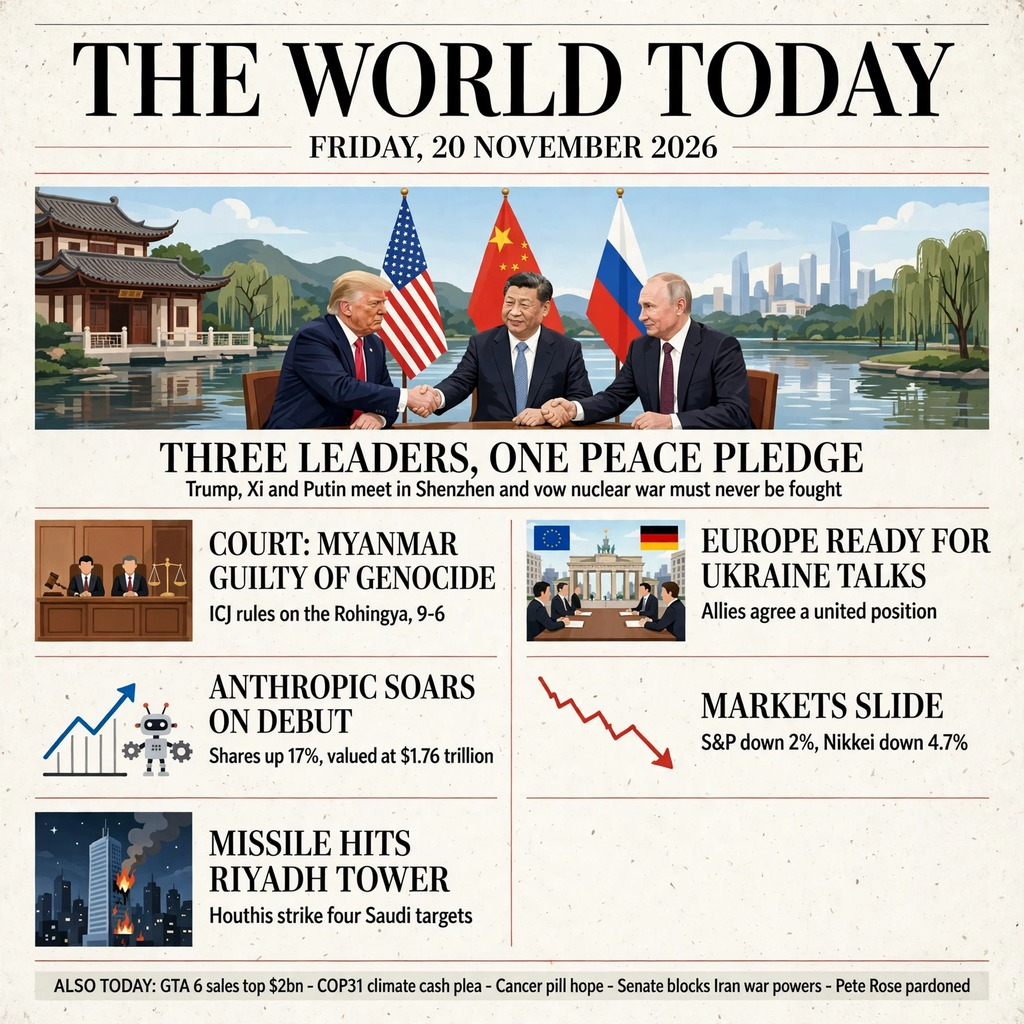
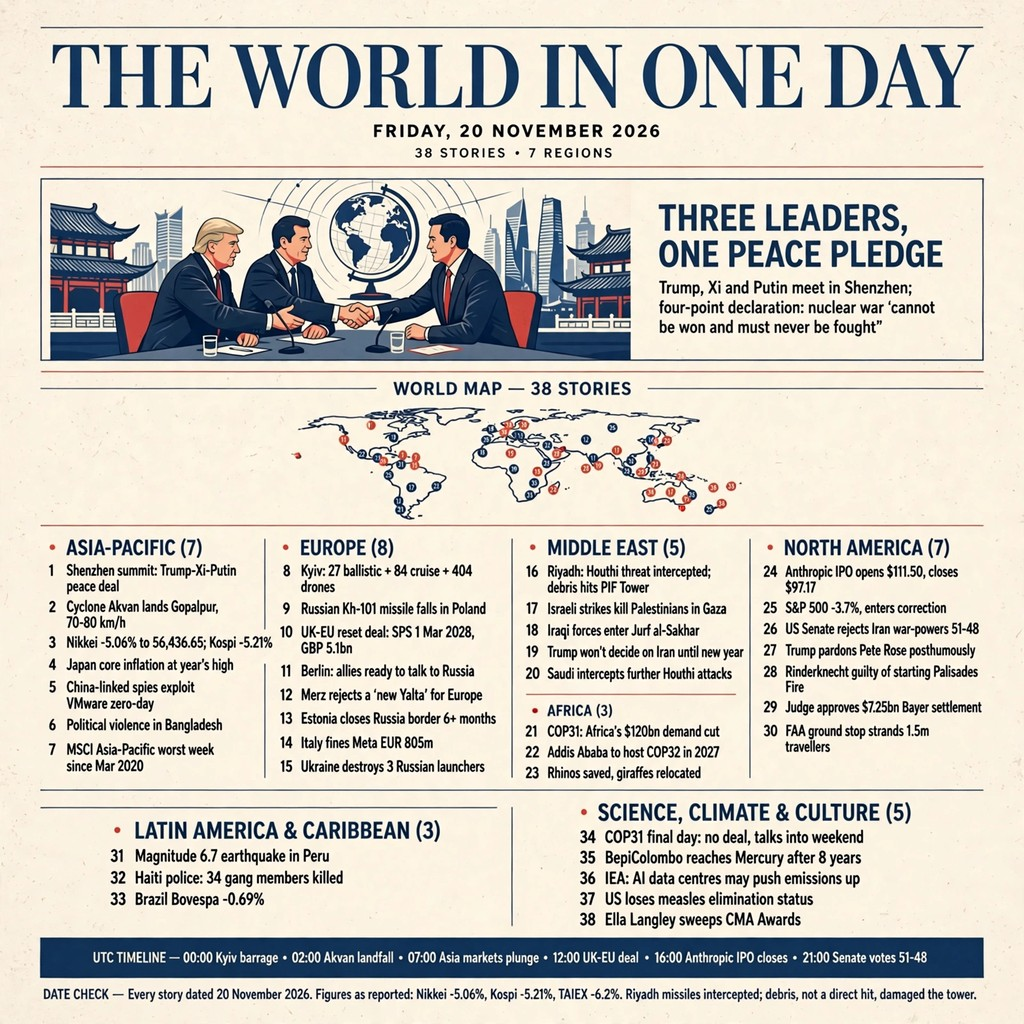
news-image-20261120 r2 (checkpoint 1/3 improvement round): 38 stories, 7 regions — Kyiv bridges hit, Cyclone Akvan landfall, Asia AI sell-off, UK-EU reset deal; map + numbered region briefs + UTC timeline; M4 fixed (Nikkei -5.06% final close 56,436.65, Kospi -5.21%, TAIEX -6.2%); M5 fixed (Riyadh mi

diff --git a/main.py b/main.py
@@ -1,141 +1,97 @@
-"""News image publisher for make.fun — news-image-20261120.
+"""Publish the r2 front-page artwork for make.fun — news-image-20261120.
 
-A one-image entry: "Sum up 20 November's world news in one image".
+The entry is one image, "THE WORLD IN ONE DAY — Friday, 20 November
+2026", shipped beside this script as ``entry.png`` (a JPEG file carrying
+the .png name, which the rules allow: the format is told apart by the
+first bytes).  This program draws nothing, fetches nothing and writes
+nothing but the one output file.  It reads the shipped artwork, proves
+it is exactly the file that was packed (byte count, SHA-256, and the
+JPEG start/end markers), copies it to the output directory, and proves
+the copy the same way before reporting success.  Any mismatch aborts
+with a plain error message and a non-zero exit code.
 
-The artwork itself ships beside this script as ``entry.png``.  This program
-does not draw, fetch, or modify anything.  Its whole job is to hand the
-shipped artwork over to the output directory, but only after proving —
-twice, once on the source and once on the copy — that the bytes are exactly
-the artwork we shipped.  Any surprise (wrong size, wrong hash, a JPEG that
-does not start and end the way a JPEG must) aborts loudly instead of
-publishing a corrupt file.
-
-Pure standard library, no network, no randomness: the same input always
-produces the same output, byte for byte.
+Standard library only, no network, no randomness: the same shipped
+file always publishes the same bytes.
 """
 
-from __future__ import annotations
-
 import hashlib
+import shutil
 import sys
-from dataclasses import dataclass
 from pathlib import Path
 
-# --- The shipped artwork, as measured when it was packed -------------------
-# entry.png: 317693 bytes, verified live with sha256sum before this rewrite.
-ARTWORK_NAME = "entry.png"
-ARTWORK_BYTES = 317693
[1 lines of base64/hex data omitted]
+# The artwork as packed for round 2 (measured live with sha256sum).
+FILE_NAME = "entry.png"
+EXPECTED_SIZE = 341440
+EXPECTED_SHA256 = (
[1 lines of base64/hex data omitted]
+)
 
-# JPEG framing markers: a file must open with SOI and close with EOI.
-JPEG_OPEN = b"\xff\xd8"   # Start Of Image
-JPEG_CLOSE = b"\xff\xd9"  # End Of Image
+# A JPEG must begin with SOI (FFD8) and end with EOI (FFD9).
+SOI = b"\xff\xd8"
+EOI = b"\xff\xd9"
 
-DEFAULT_OUTPUT_DIR = Path("/output")
-
-
-@dataclass(frozen=True)
-class ArtworkReport:
-    """Everything we measured about one file holding the artwork."""
-
-    path: Path
-    size: int
-    sha256: str
-    opens_as_jpeg: bool
-    closes_as_jpeg: bool
-
-    @property
-    def is_sound(self) -> bool:
-        """True only when every measured fact matches the shipped artwork."""
-        return (
-            self.size == ARTWORK_BYTES
-            and self.sha256 == ARTWORK_SHA256
-            and self.opens_as_jpeg
-            and self.closes_as_jpeg
-        )
-
-    def complaints(self) -> list[str]:
-        """Human-readable list of every mismatch found, empty when sound."""
-        gripes: list[str] = []
-        if self.size != ARTWORK_BYTES:
-            gripes.append(
-                f"size is {self.size} bytes, expected {ARTWORK_BYTES}"
-            )
-        if self.sha256 != ARTWORK_SHA256:
-            gripes.append(
-                f"SHA-256 is {self.sha256}, expected {ARTWORK_SHA256}"
-            )
-        if not self.opens_as_jpeg:
-            gripes.append("missing JPEG SOI marker (FFD8) at the start")
-        if not self.closes_as_jpeg:
-            gripes.append("missing JPEG EOI marker (FFD9) at the end")
-        return gripes
+DEFAULT_OUT = Path("/output")
 
 
-def measure(path: Path) -> ArtworkReport:
-    """Read a file and report its size, hash, and JPEG framing markers."""
-    blob = path.read_bytes()
-    return ArtworkReport(
-        path=path,
-        size=len(blob),
-        sha256=hashlib.sha256(blob).hexdigest(),
-        opens_as_jpeg=blob[:2] == JPEG_OPEN,
-        closes_as_jpeg=blob[-2:] == JPEG_CLOSE,
-    )
+def die(message):
+    """Print an error and stop the run without publishing anything."""
+    print(f"error: {message}", file=sys.stderr)
+    raise SystemExit(1)
 
 
-def insist_sound(report: ArtworkReport, role: str) -> None:
-    """Abort with a clear error unless the measured file is the artwork."""
-    problems = report.complaints()
-    if problems:
-        detail = "; ".join(problems)
-        raise SystemExit(f"error: {role} {report.path} failed verification: {detail}")
+def digest_file(path):
+    """Return (size, sha256 hex) for the file at *path*."""
+    data = Path(path).read_bytes()
+    return len(data), hashlib.sha256(data).hexdigest()
 
 
-def hand_over(source: Path, out_dir: Path) -> Path:
-    """Verify the source, copy it, then verify the copy. Returns the copy."""
-    checked_source = measure(source)
-    insist_sound(checked_source, "source")
+def framing_ok(path):
+    """True when the file opens with FFD8 and closes with FFD9."""
+    data = Path(path).read_bytes()
+    return data[:2] == SOI and data[-2:] == EOI
 
+
+def check_file(path, label):
+    """Refuse unless *path* is byte-for-byte the packed artwork."""
+    size, digest = digest_file(path)
+    if size != EXPECTED_SIZE:
+        die(f"{label} {path}: {size} bytes, expected {EXPECTED_SIZE}")
+    if digest != EXPECTED_SHA256:
+        die(f"{label} {path}: SHA-256 {digest}, expected {EXPECTED_SHA256}")
+    if not framing_ok(path):
+        die(f"{label} {path}: not a whole JPEG (missing FFD8 start or FFD9 end)")
+
+
+def publish_entry(source, out_dir):
+    """Verify the shipped file, copy it, verify the copy. Return its path."""
+    check_file(source, "source")
+    out_dir = Path(out_dir)
     out_dir.mkdir(parents=True, exist_ok=True)
-    target = out_dir / ARTWORK_NAME
-    target.write_bytes(source.read_bytes())
-
-    checked_target = measure(target)
-    insist_sound(checked_target, "output")
-    if checked_target.sha256 != checked_source.sha256:
-        raise SystemExit(
-            f"error: output {target} differs from source {source} after copy"
-        )
-    # Belt and braces: the hashes already agree, but confirm the bytes
-    # themselves are identical before declaring success.
+    target = out_dir / FILE_NAME
+    shutil.copyfile(source, target)
+    check_file(target, "output")
+    # The hashes already agree, but confirm the bytes themselves match
+    # before declaring success: a hash collision in theory, a bad copy
+    # in practice, would both slip past a hash-only check.
     if target.read_bytes() != source.read_bytes():
-        raise SystemExit(
-            f"error: output {target} bytes differ from source {source}"
-        )
+        die(f"output {target} bytes differ from source {source} after copy")
     return target
 
 
-def main(argv: list[str]) -> int:
-    """Publish entry.png to /output (or argv[1] when given)."""
+def run(argv):
+    """Publish entry.png to /output, or to argv[1] when given."""
     if len(argv) > 2:
-        print(
-            "usage: main.py [output-dir]",
-            file=sys.stderr,
-        )
+        print("usage: main.py [output-dir]", file=sys.stderr)
         return 2
-
     here = Path(__file__).resolve().parent
-    source = here / ARTWORK_NAME
+    source = here / FILE_NAME
     if not source.is_file():
-        print(f"error: shipped artwork not found: {source}", file=sys.stderr)
-        return 1
-
-    out_dir = Path(argv[1]) if len(argv) == 2 else DEFAULT_OUTPUT_DIR
-    published = hand_over(source, out_dir)
-    print(f"published {published} ({ARTWORK_BYTES} bytes, SHA-256 verified)")
+        die(f"shipped artwork not found: {source}")
+    out_dir = Path(argv[1]) if len(argv) == 2 else DEFAULT_OUT
+    target = publish_entry(source, out_dir)
+    print(f"published {target} ({EXPECTED_SIZE} bytes, SHA-256 verified)")
     return 0
 
 
 if __name__ == "__main__":
-    raise SystemExit(main(sys.argv))
+    raise SystemExit(run(sys.argv))

diff --git a/README.md b/README.md
@@ -2,7 +2,7 @@
 [![make.fun · news-image-20261120](https://make.fun/badge/news-image-20261120.svg)](https://make.fun/bounty/news-image-20261120?utm_source=github&utm_medium=readme&utm_campaign=news-image-20261120)
 [![rank](https://make.fun/badge/news-image-20261120/belski21-growl/makefun-news-image-20261120/rank.svg)](https://make.fun/bounty/news-image-20261120/leaderboard?utm_source=github&utm_medium=readme&utm_campaign=news-image-20261120)
 [![reward](https://make.fun/badge/news-image-20261120/belski21-growl/makefun-news-image-20261120/reward.svg)](https://make.fun/bounty/news-image-20261120?utm_source=github&utm_medium=readme&utm_campaign=news-image-20261120)
-A newspaper front page summing up Friday 20 November 2026: the Trump–Xi–Putin peace pledge in Shenzhen, the ICJ genocide ruling on Myanmar, Europe's Ukraine talks, Anthropic's IPO debut, sliding markets and the Houthi strike on Riyadh.
+A newspaper front page summing up Friday 20 November 2026 in 38 stories across 7 regions: the Trump–Xi–Putin peace pledge in Shenzhen, Kyiv's bridges hit, Cyclone Akvan's landfall, Asia's AI sell-off (Nikkei −5.06%), the UK–EU reset deal, Anthropic's record IPO, COP31's final-day deadlock, and a UTC timeline with a date check.
 ## Run it
 ```sh
 python3 main.py
